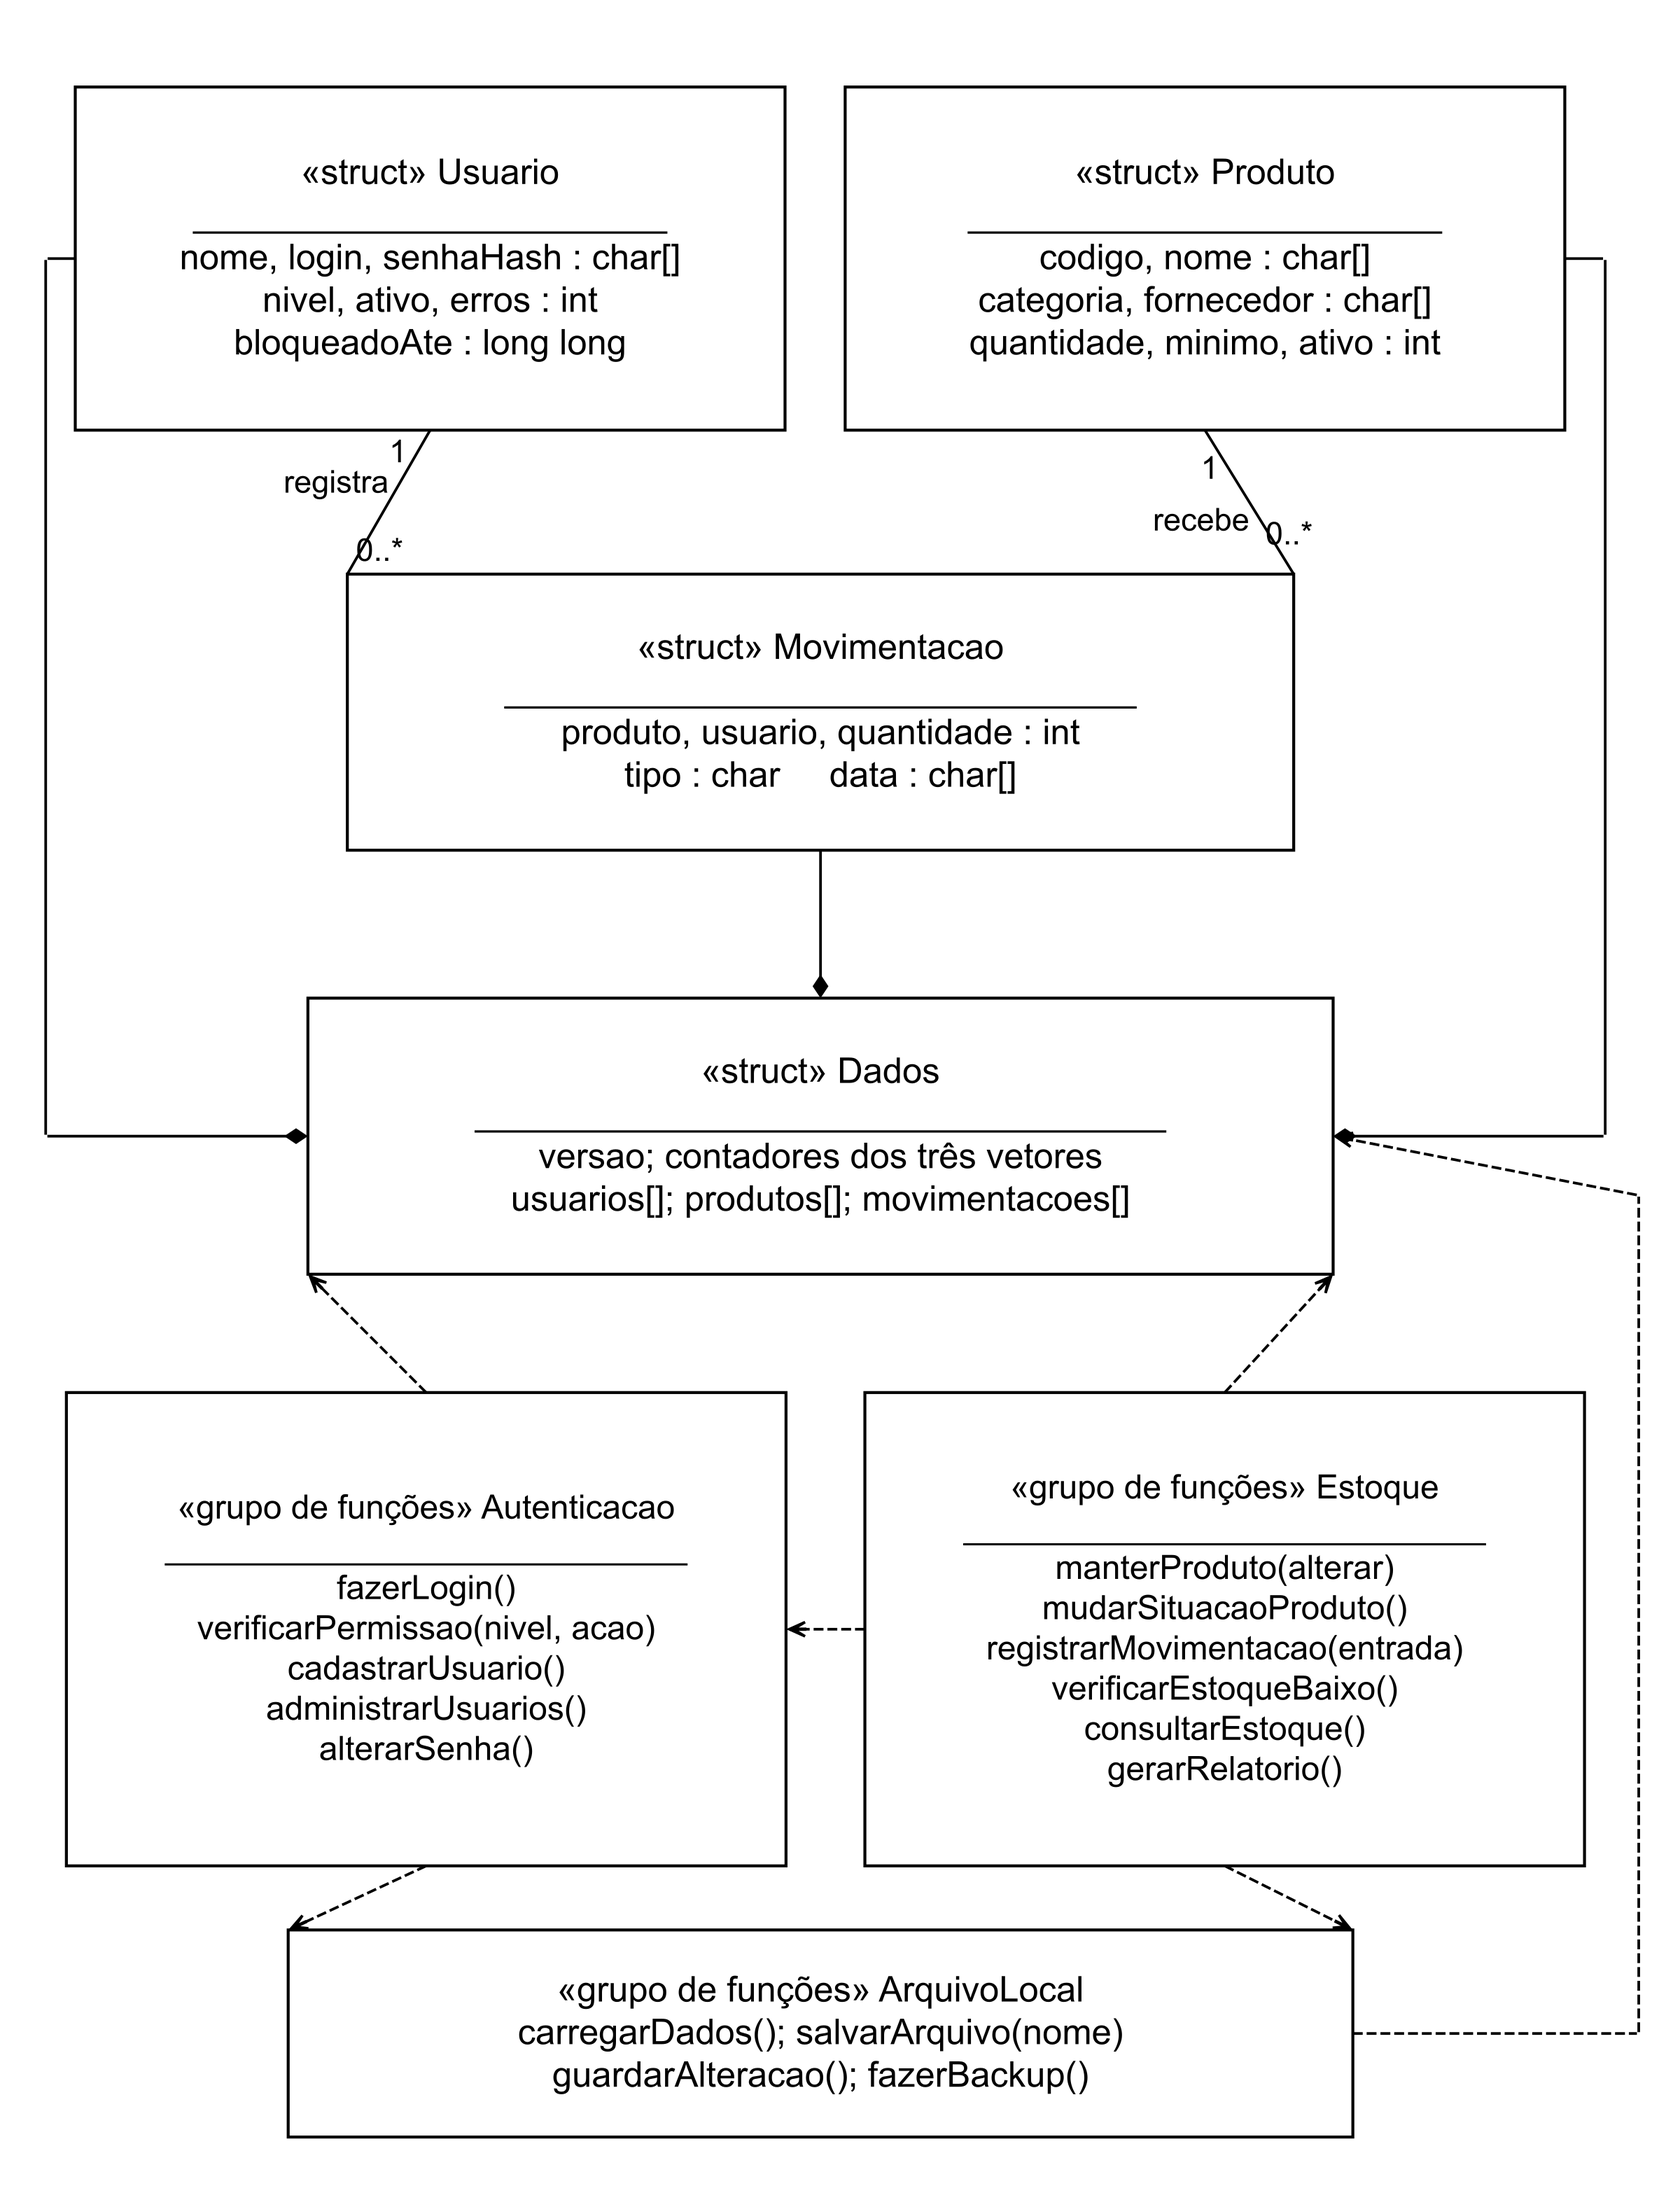
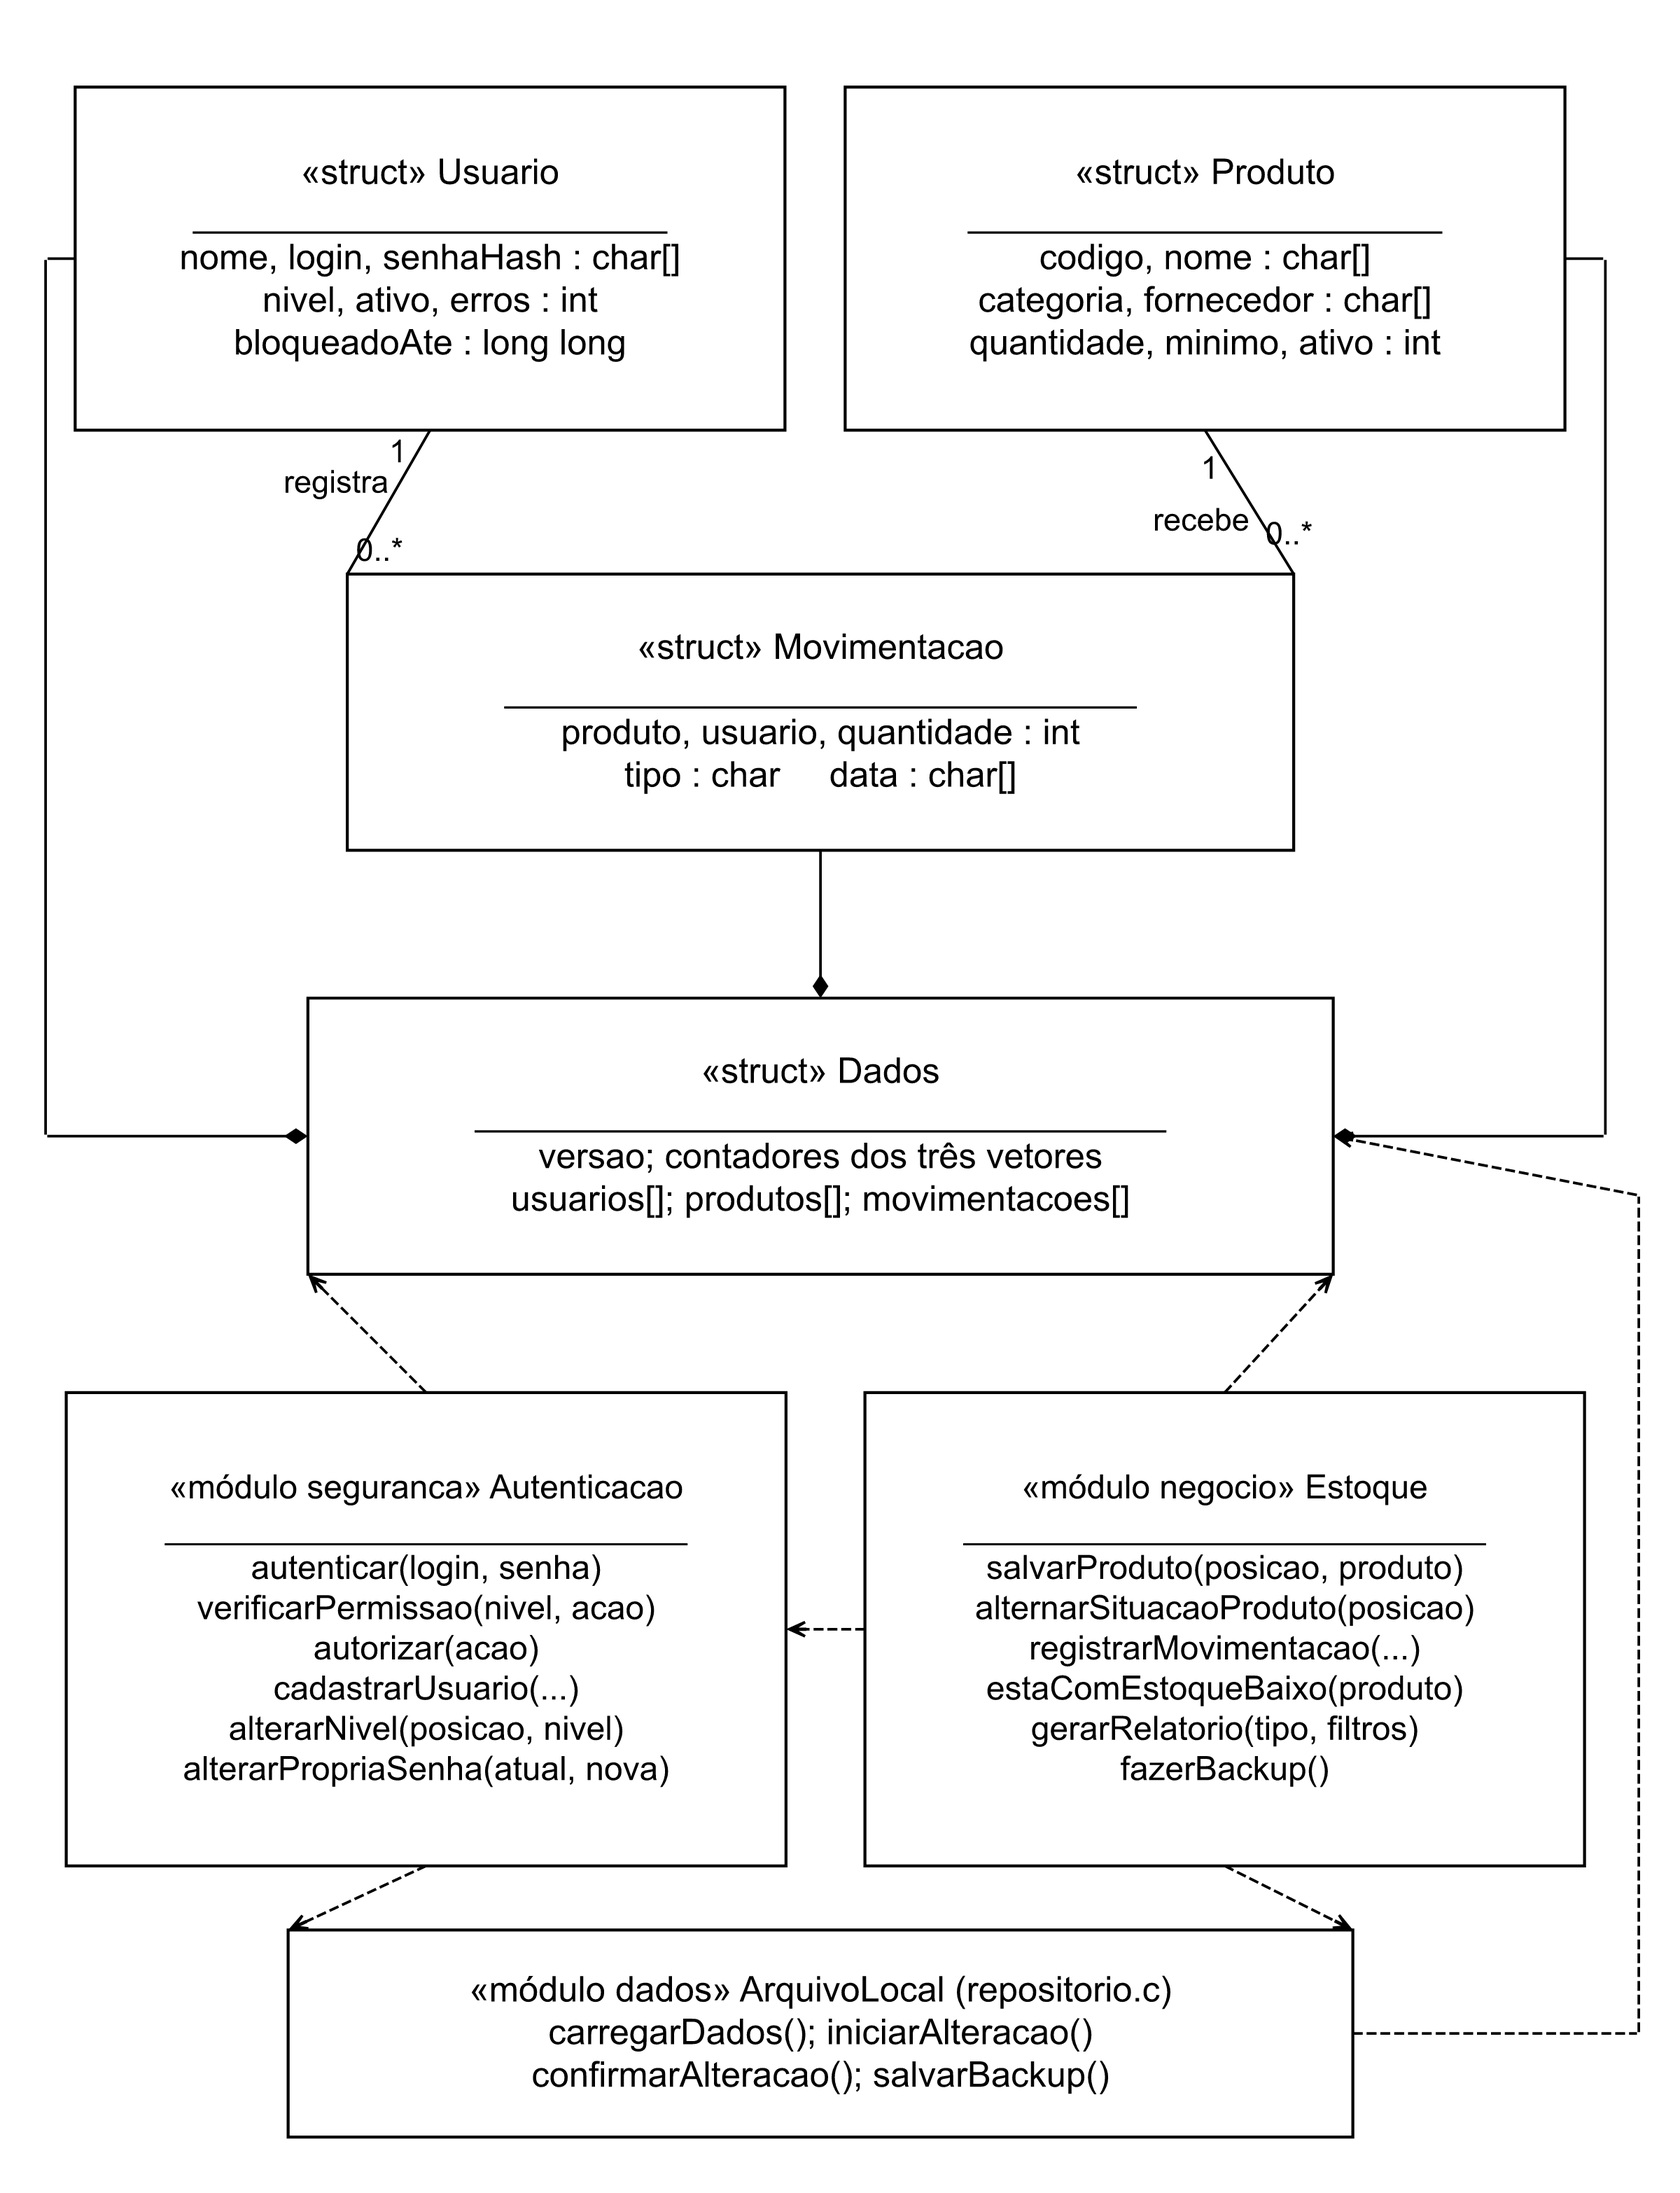
Regenera imagens dos diagramas 03 e 06
SVGs gerados com Viz.js (neato) e PNGs convertidos com resvg, com
2400 px de largura e as mesmas alturas anteriores. Verificacao e
checklist atualizados.

diff --git a/docs/VERIFICACAO.md b/docs/VERIFICACAO.md
@@ -62,7 +62,7 @@ As regras devolvem um Resultado em vez de escrever na tela. As permissões são 
 
 Verificação realizada no macOS: compilação com -std=c11 -Wall -Wextra -Wpedantic -Werror, sem avisos. A versão anterior e a nova receberam os mesmos roteiros de entrada, cobrindo demonstração, primeiro Administrador, login, senha incorreta, bloqueio, usuário inativo, quatro níveis, cadastro e alteração de usuários, troca de senha, produtos, entradas, saídas, estoque insuficiente, produto inativo, relatório com período, backup e argumentos inválidos. As saídas e o relatório gerado foram idênticos. Um arquivo de dados criado pela versão anterior foi aberto pela nova.
 
-As fontes dos diagramas 03 e 06 foram atualizadas para os nomes dos módulos. Os PNGs e SVGs correspondentes precisam ser regenerados, e o Word ainda precisa receber as seções revisadas, conforme o [checklist](CHECKLIST_WORD.md).
+As fontes dos diagramas 03 e 06 foram atualizadas para os nomes dos módulos. Os SVGs foram regenerados com Viz.js (motor neato, como os demais) e os PNGs foram convertidos com resvg, mantendo 2.400 pixels de largura e as mesmas alturas anteriores; as duas imagens foram conferidas visualmente. O Word e o caderno ainda precisam receber as seções e figuras revisadas, conforme o [checklist](CHECKLIST_WORD.md).
 
 O passo a passo e os resultados esperados de cada requisito estão no [guia de testes do código](../codigo/LEIA_ME.md). Os requisitos completos estão na [Etapa 3](trabalho/03-engenharia-agil.md).
 

diff --git a/docs/CHECKLIST_WORD.md b/docs/CHECKLIST_WORD.md
@@ -38,7 +38,7 @@ As quatro figuras principais já estão inseridas. Os demais diagramas ficam no 
 O código completo fica separado do Word, organizado em camadas na pasta [codigo/src](../codigo/src). Compile com `bash rodar.sh`, conforme o [guia do código](../codigo/LEIA_ME.md). O texto mantém apenas os pequenos exemplos necessários à explicação de Programação em C. Se o grupo alterar o programa, atualize a explicação e os diagramas afetados.
 
 - [ ] Levar ao Word as seções revisadas para a arquitetura em camadas: 2.3.7, 2.4.5, 2.5 e a introdução. Os textos atualizados estão nos capítulos em Markdown.
-- [ ] Substituir no caderno de diagramas as figuras 03 (classes) e 06 (pacotes), depois de regenerar os PNGs.
+- [ ] Substituir no caderno de diagramas as figuras 03 (classes) e 06 (pacotes) pelos PNGs já regenerados em `diagramas/imagens`.
 
 
 ## Revisão do cronograma
